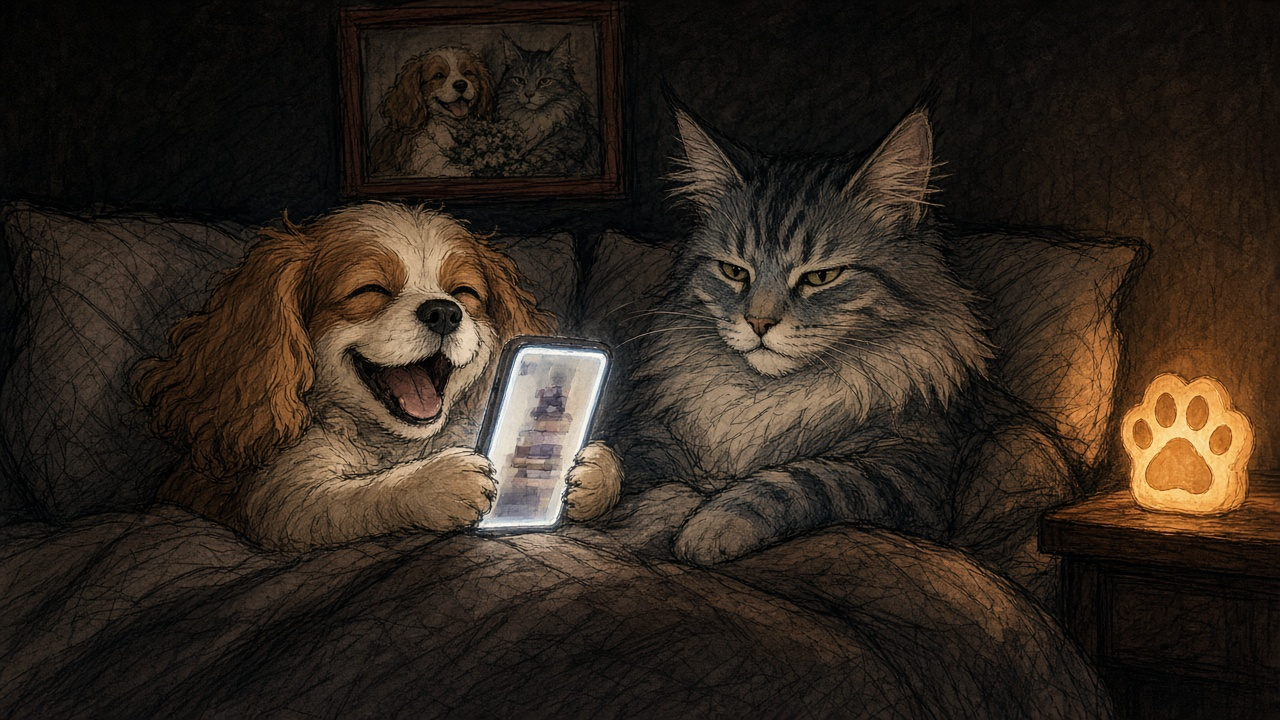
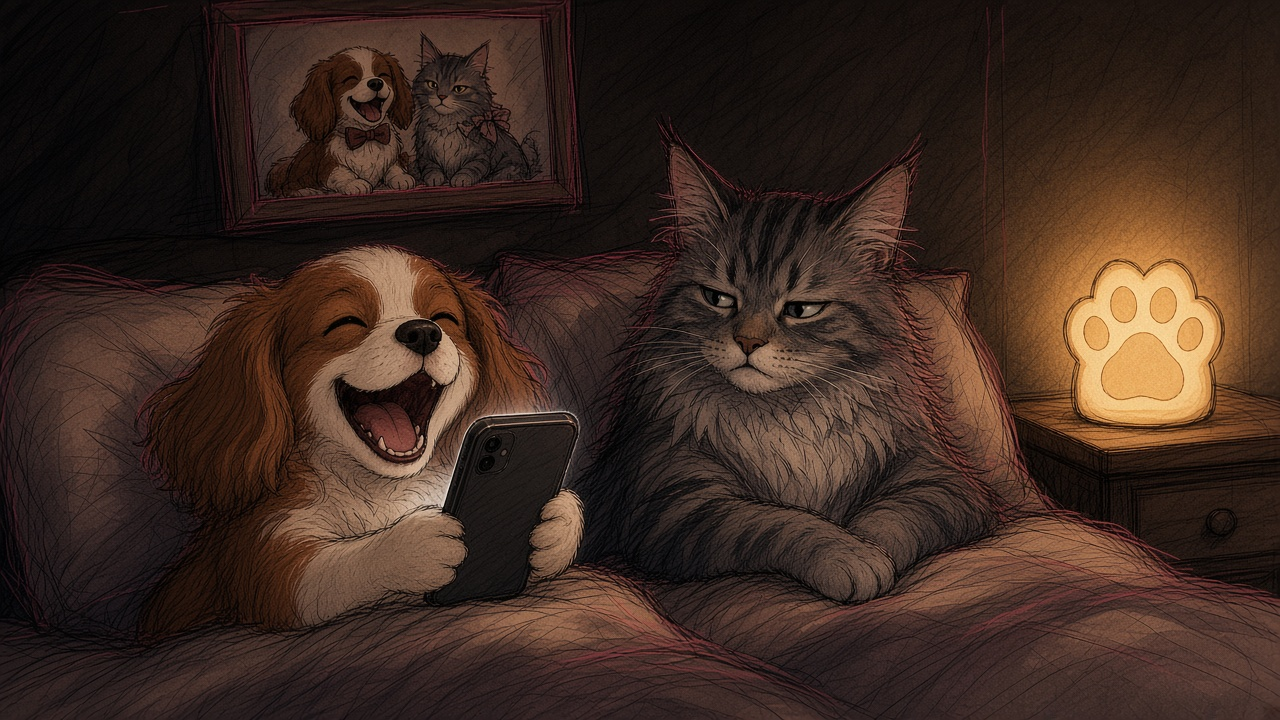
Frame 01 v6: paw-lamp from v1, dark light, phone back facing camera

diff --git a/projects/first-frame/frame_01_prompt.md b/projects/first-frame/frame_01_prompt.md
@@ -85,3 +85,7 @@ watermark, username, platform logo, app UI, button overlay, QR code, creator sig
   "notes_for_me": "Source of truth: local unpushed MD at D:\\aivideotest\\grokbot_github\\aivideostudy\\FRAME_01_TEMPLATE.md (commit 6b11b28 '1st' at repo root, not pushed). frame_01.fill.json was empty; PRODUCT_OR_PROP inferred from action (phone). v4 feedback: dark room + paw-lamp key light; phone upright screen-facing."
 }
 ```
+
+## Phone staging convention (user lock)
+When subject is "玩手机", show the **back of the phone** facing the camera while the character's face is visible (phone in hands, browsing pose). Camera bump at TOP (toward headboard), charging-port end DOWN. Do not show screen facing viewer. Negative: screen-facing phone, upside-down phone, inverted phone.
+
